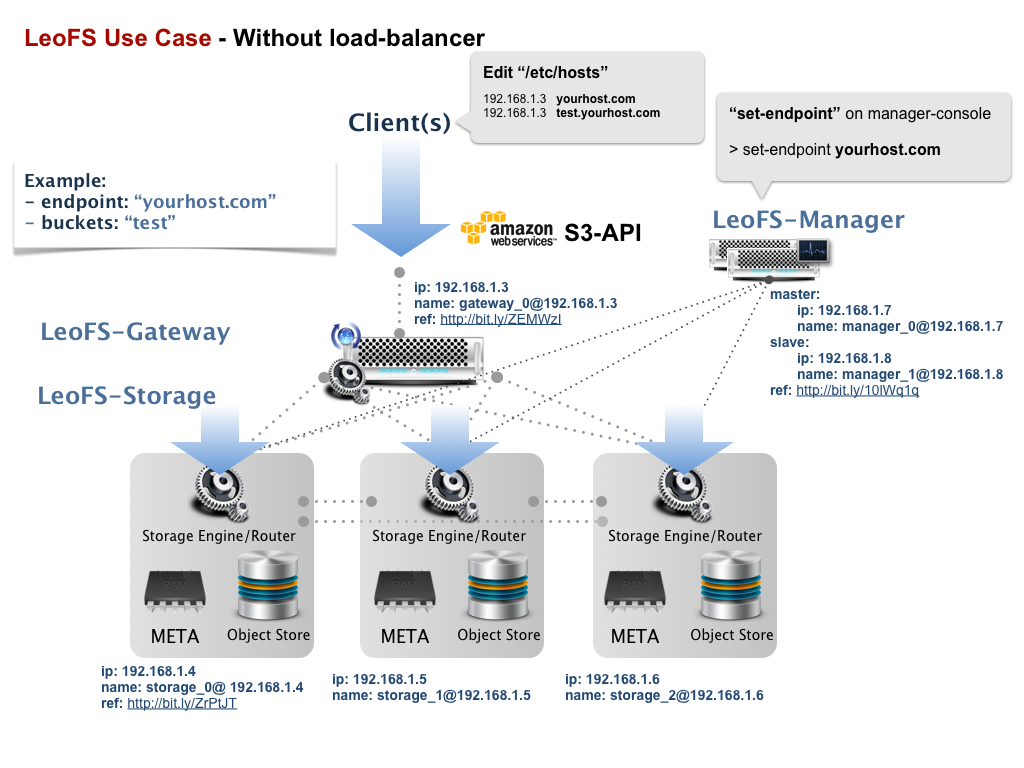
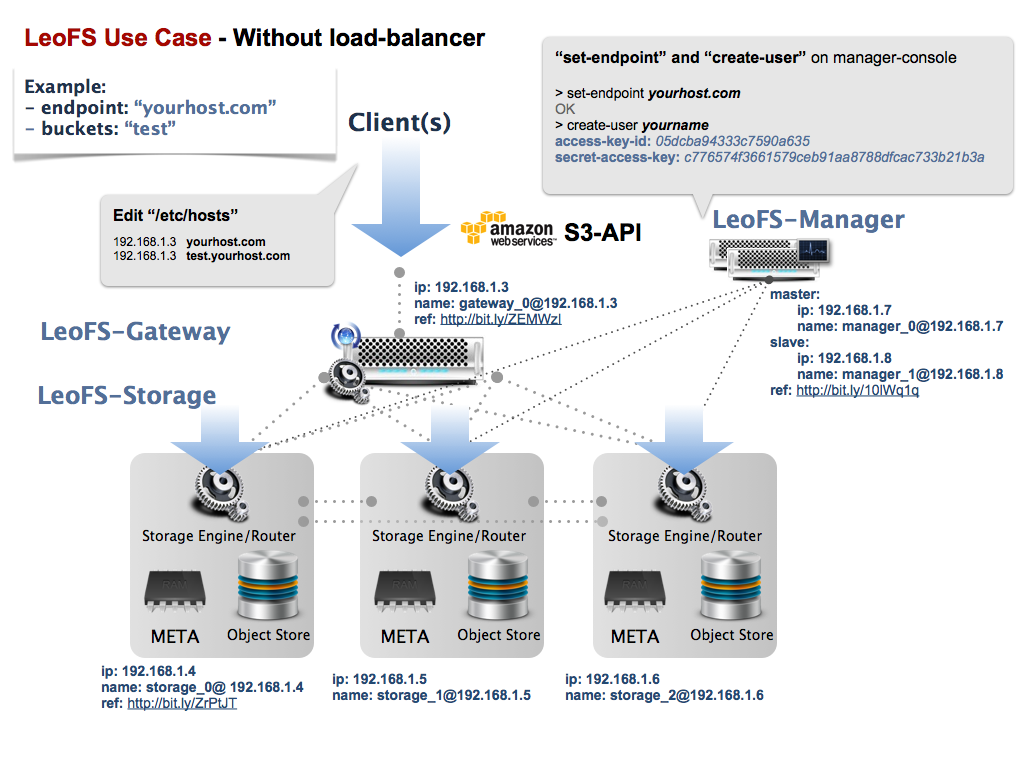
Update use case without lb

diff --git a/configuration.rst b/configuration.rst
@@ -619,10 +619,16 @@ LeoFS's Use Case (1) - Without load-balancer
     * :ref:`Storage <conf_storage_label>`
         * IP: 192.168.1.4 .. 192.168.1.6
         * Name: storage_0@192.168.1.4 .. storage_2@192.168.1.6
-* Set an endpoint - ``yourhost.com`` on LeoFS-Manager's console
+* Execute commands on LeoFS-Manager's console for the authentication
+    * Set an endpoint - ``yourhost.com``
+    * Create a user   - ``yourname``
 
 ::
 
     $ telnet 127.0.0.1 10010
     > set-endpoint yourhost.com
+    OK
+    > create-user yourname
+    access-key-id: 05dcba94333c7590a635
+    secret-access-key: c776574f3661579ceb91aa8788dfcac733b21b3a
 
